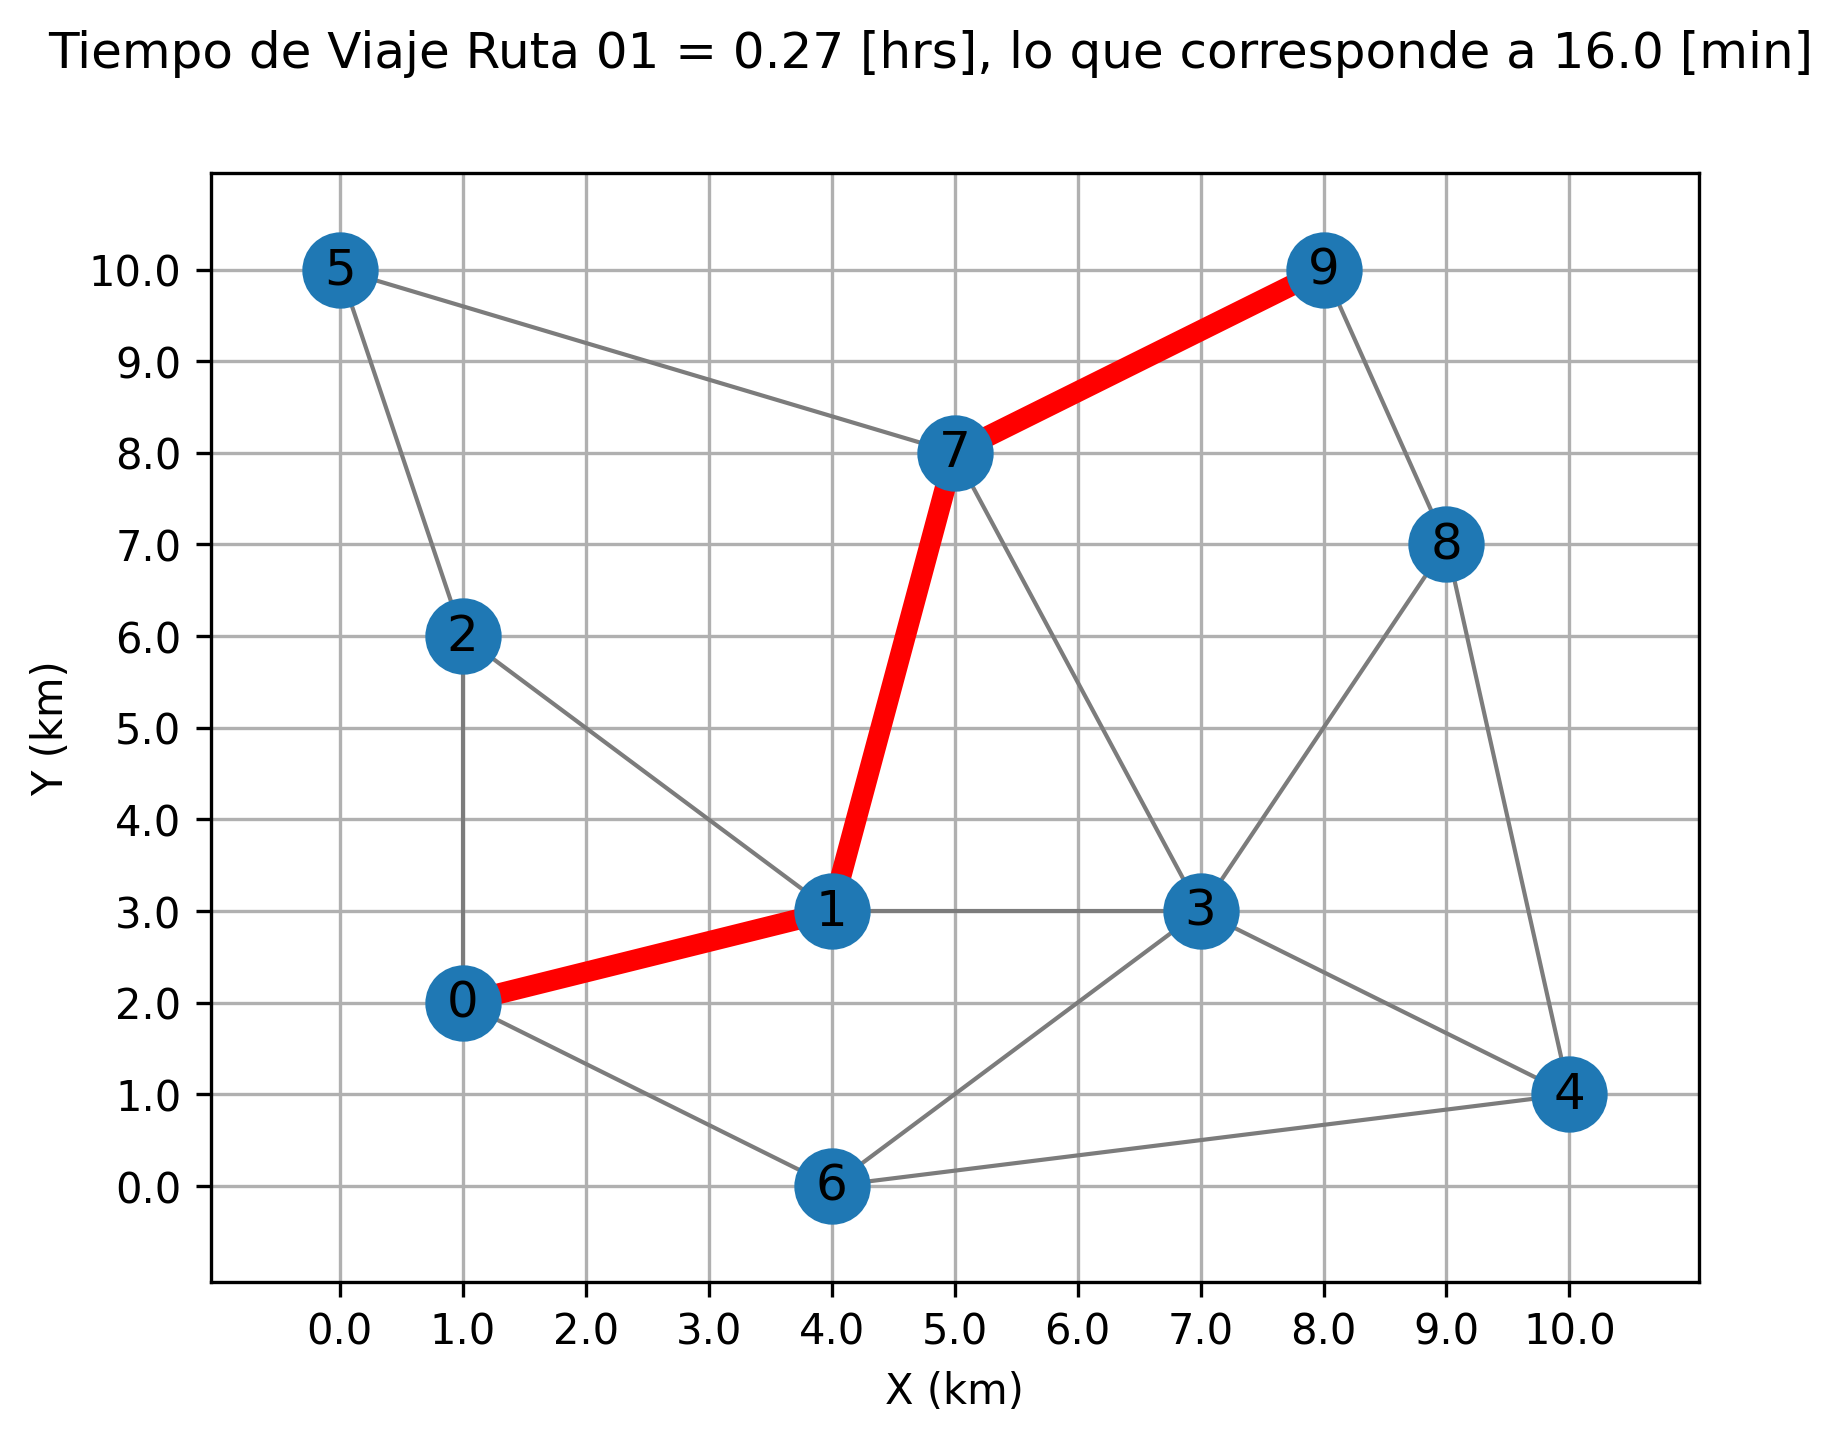
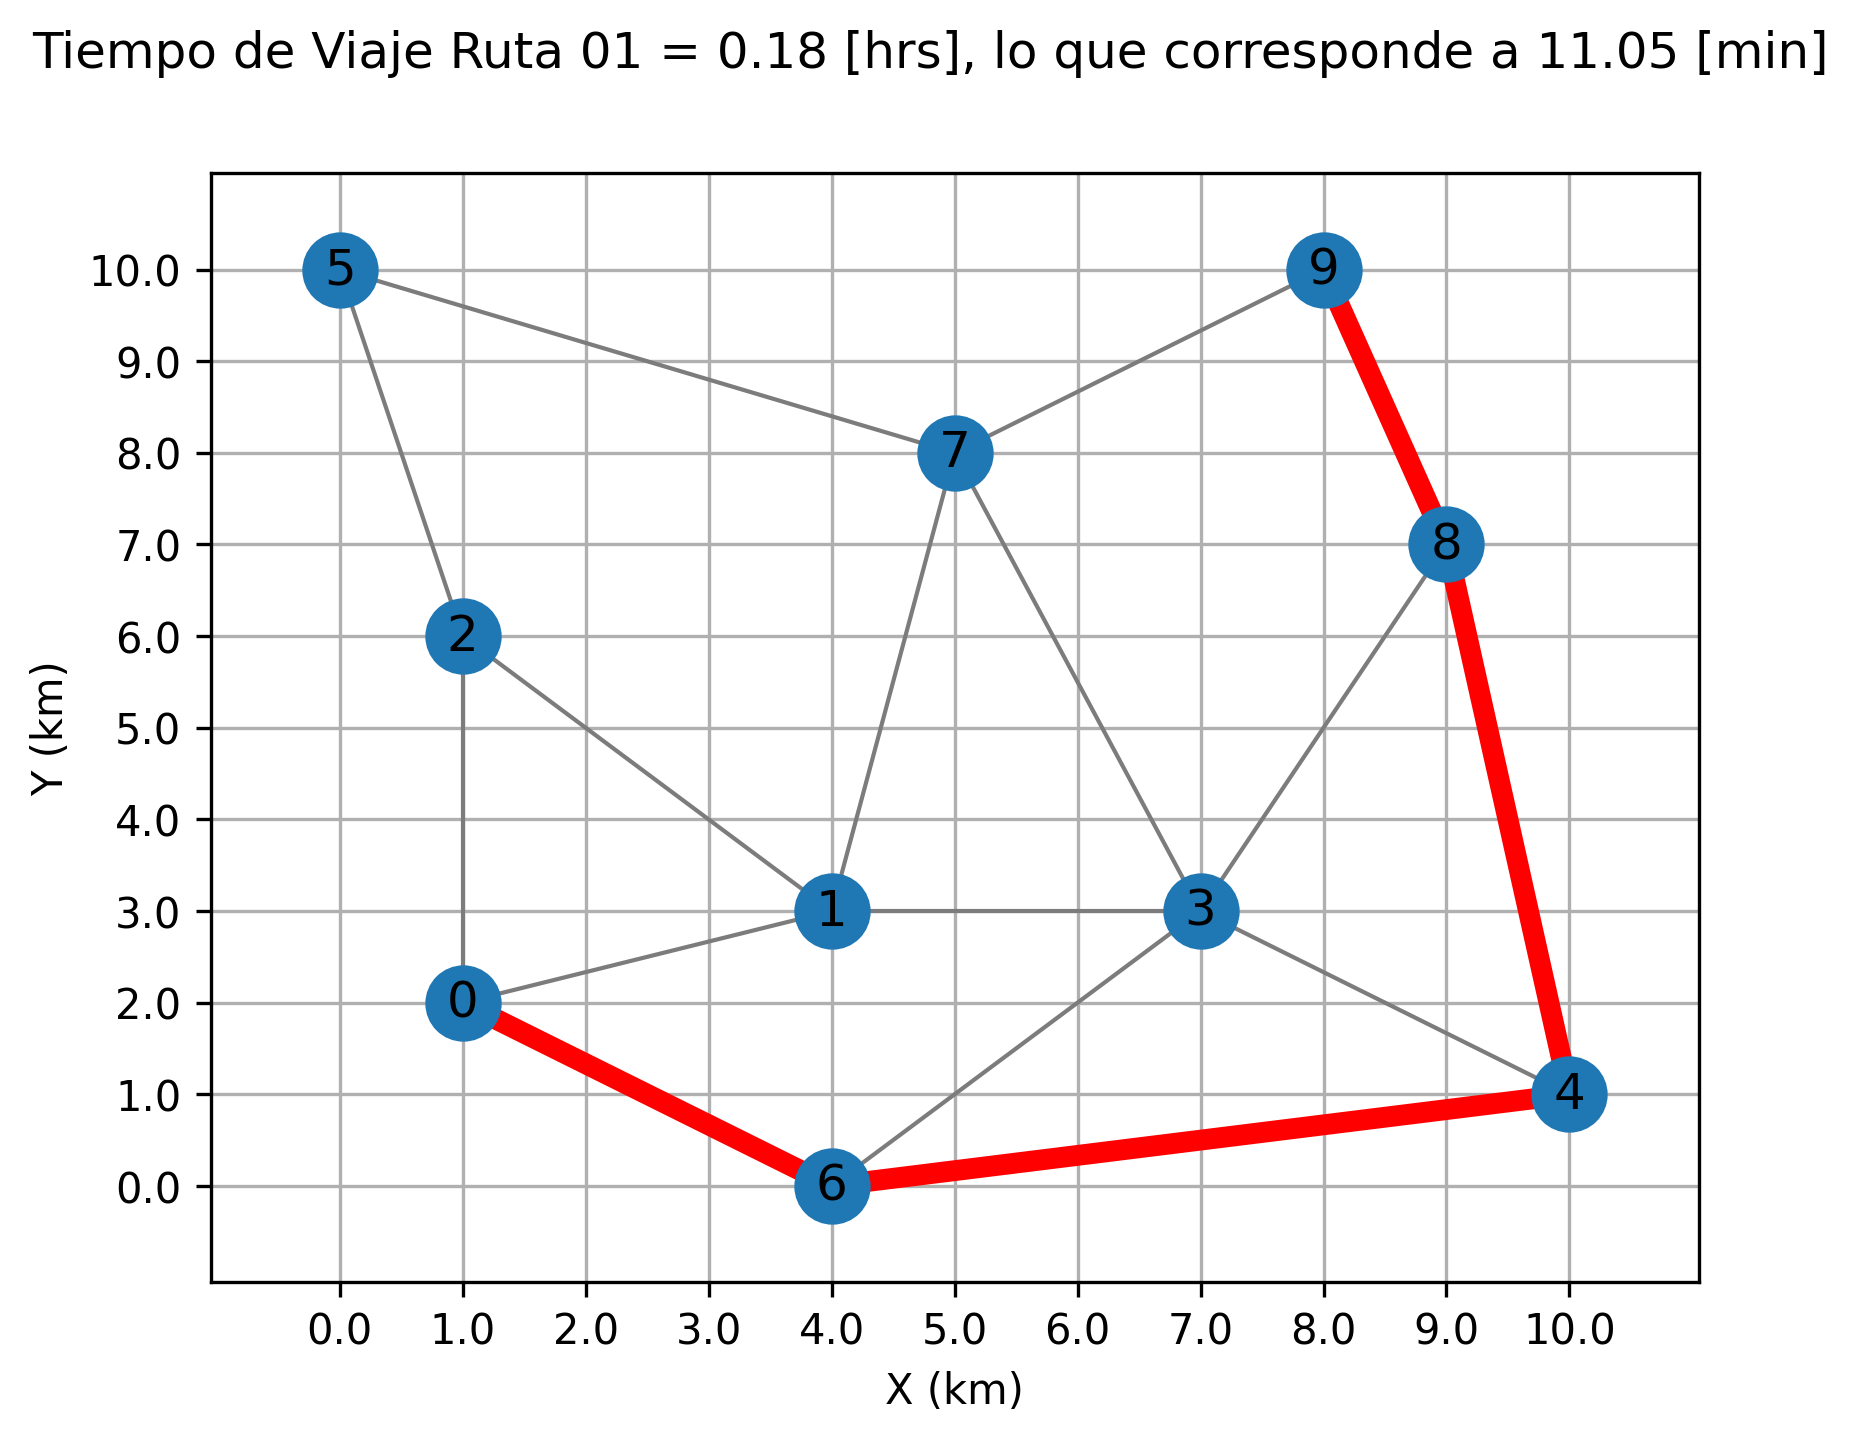
Corrección rutas

diff --git a/Entrega 2/p3p2.py b/Entrega 2/p3p2.py
@@ -8,6 +8,13 @@ gris = rgb("7C7C7C")
 cafe = rgb("6C4E09")
 verde = rgb("00701A")
 
+def distancia(nodo1, nodo2, grafo):
+	 poss = nx.get_node_attributes(grafo, "pos")
+	 dist1 = poss[nodo1]
+	 dist2 = poss[nodo2]
+
+	 return math.dist(dist1, dist2)
+
 G = nx.Graph()   #Graph asume bidireccionalidad en todos los arcos
 
 G.add_node(0, pos=[1.0, 2.0])
@@ -21,22 +28,22 @@ G.add_node(7, pos=[5.0, 8.0])
 G.add_node(8, pos=[9.0, 7.0])
 G.add_node(9, pos=[8.0, 10.0])
 
-G.add_edge(0, 1, lim_vel = 40)
-G.add_edge(0, 2, lim_vel = 120)
-G.add_edge(0, 6, lim_vel = 120)
-G.add_edge(1, 2, lim_vel = 40)
-G.add_edge(1, 3, lim_vel = 60)
-G.add_edge(1, 7, lim_vel = 40)
-G.add_edge(2, 5, lim_vel = 40)
-G.add_edge(3, 4, lim_vel = 60)
-G.add_edge(3, 6, lim_vel = 40)
-G.add_edge(3, 7, lim_vel = 60)
-G.add_edge(3, 8, lim_vel = 40)
-G.add_edge(4, 6, lim_vel = 120)
-G.add_edge(4, 8, lim_vel = 120)
-G.add_edge(5, 7, lim_vel = 120)
-G.add_edge(7, 9, lim_vel = 60)
-G.add_edge(8, 9, lim_vel = 60)
+G.add_edge(0, 1, lim_vel = 40, dist = distancia(0, 1, G), tiempo = distancia(0, 1, G)/40)
+G.add_edge(0, 2, lim_vel = 120, dist = distancia(0, 2, G), tiempo = distancia(0, 2, G)/120)
+G.add_edge(0, 6, lim_vel = 120, dist = distancia(0, 6, G), tiempo = distancia(0, 6, G)/120)
+G.add_edge(1, 2, lim_vel = 40, dist = distancia(1, 2, G), tiempo = distancia(1, 2, G)/40)
+G.add_edge(1, 3, lim_vel = 60, dist = distancia(1, 3, G), tiempo = distancia(1, 3, G)/60)
+G.add_edge(1, 7, lim_vel = 40, dist = distancia(1, 7, G), tiempo = distancia(1, 7, G)/40)
+G.add_edge(2, 5, lim_vel = 40, dist = distancia(2, 5, G), tiempo = distancia(2, 5, G)/40)
+G.add_edge(3, 4, lim_vel = 60, dist = distancia(3, 4, G), tiempo = distancia(3, 4, G)/60)
+G.add_edge(3, 6, lim_vel = 40, dist = distancia(3, 6, G), tiempo = distancia(3, 6, G)/40)
+G.add_edge(3, 7, lim_vel = 60, dist = distancia(3, 7, G), tiempo = distancia(3, 7, G)/60)
+G.add_edge(3, 8, lim_vel = 40, dist = distancia(3, 8, G), tiempo = distancia(3, 8, G)/40)
+G.add_edge(4, 6, lim_vel = 120, dist = distancia(4, 6, G), tiempo = distancia(4, 6, G)/120)
+G.add_edge(4, 8, lim_vel = 120, dist = distancia(4, 8, G), tiempo = distancia(4, 8, G)/120)
+G.add_edge(5, 7, lim_vel = 120, dist = distancia(5, 7, G), tiempo = distancia(5, 7, G)/120)
+G.add_edge(7, 9, lim_vel = 60, dist = distancia(7, 9, G), tiempo = distancia(7, 9, G)/60)
+G.add_edge(8, 9, lim_vel = 60, dist = distancia(8, 9, G), tiempo = distancia(8, 9, G)/60)
 
 
 pos = nx.get_node_attributes(G, "pos")
@@ -76,18 +83,11 @@ plt.show()
 
 
 
-#Ahora definimos rutas con su tiempo de viaje
+#Ahora definimos rutas
 
-def distancia(nodo1, nodo2):
-	 poss = nx.get_node_attributes(G, "pos")
-	 dist1 = poss[nodo1]
-	 dist2 = poss[nodo2]
-
-	 return math.dist(dist1, dist2)
-
-ruta01 = nx.dijkstra_path(G, source=0, target=9, weight = "lim_vel")
-ruta02 = nx.dijkstra_path(G, source=4, target=5, weight = "lim_vel")
-ruta03 = nx.dijkstra_path(G, source=0, target=4, weight = "lim_vel")
+ruta01 = nx.dijkstra_path(G, source=0, target=9, weight = "tiempo")
+ruta02 = nx.dijkstra_path(G, source=4, target=5, weight = "tiempo")
+ruta03 = nx.dijkstra_path(G, source=0, target=4, weight = "tiempo")
 
 tiempo_viaje_01 = 0.
 tiempo_viaje_02 = 0.
@@ -99,17 +99,17 @@ for j in range(len(Nparadas)):
 		if j + 1 == 1:
 			parada_i = ruta01[i]
 			parada_f = ruta01[i+1]
-			tiempo_viaje_tramo_i = (distancia(parada_i, parada_f)*1)/G.edges[parada_i, parada_f]["lim_vel"]
+			tiempo_viaje_tramo_i = G.edges[parada_i, parada_f]["tiempo"]
 			tiempo_viaje_01 += tiempo_viaje_tramo_i
 		elif j + 1 == 2:
 			parada_i = ruta02[i]
 			parada_f = ruta02[i+1]
-			tiempo_viaje_tramo_i = (distancia(parada_i, parada_f)*1)/G.edges[parada_i, parada_f]["lim_vel"]
+			tiempo_viaje_tramo_i = G.edges[parada_i, parada_f]["tiempo"]
 			tiempo_viaje_02 += tiempo_viaje_tramo_i
 		elif j + 1 == 3:
 			parada_i = ruta03[i]
 			parada_f = ruta03[i+1]
-			tiempo_viaje_tramo_i = (distancia(parada_i, parada_f)*1)/G.edges[parada_i, parada_f]["lim_vel"]
+			tiempo_viaje_tramo_i = G.edges[parada_i, parada_f]["tiempo"]
 			tiempo_viaje_03 += tiempo_viaje_tramo_i
 
 # print(f"Tiempo de Viaje ruta 01 = {np.round(tiempo_viaje_01, 2)} [hrs], lo que corresponde a {np.round(tiempo_viaje_01*60, 2)} [min]")
